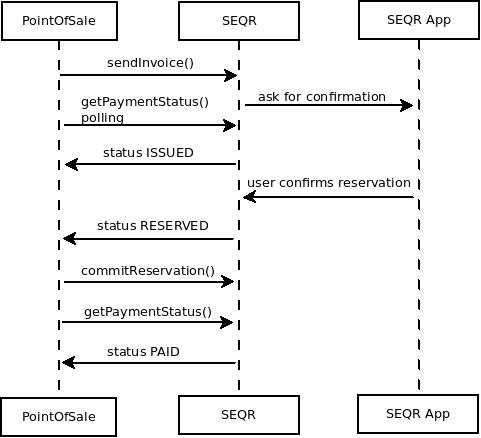
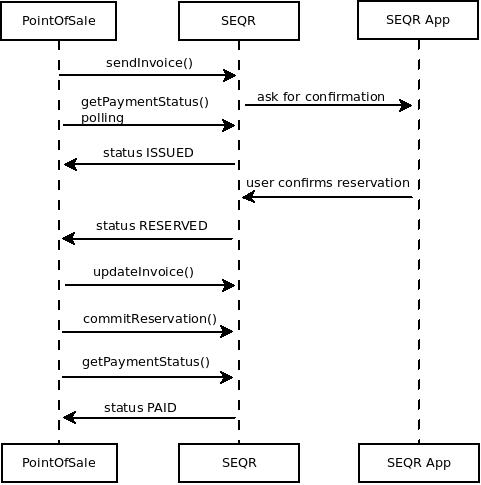
Prepin update

diff --git a/merchant/prepin/index.md b/merchant/prepin/index.md
@@ -10,11 +10,42 @@ SEQR Preliminary Payment allows you to reserve some amount on customer's account
 
 # Integration procedure
 
-Integration procedure depends on what kind of system you are integrating with SEQR. Basically you can follow procedure for [webshop](/merchant/webshop/index.html), [POS](/merchant/pos/index.html) or [mobile app](/merchant/inapp/index.html).
+1. Implement the required methods.
+2. Install test [mobile app](/app/).
+3. Test your implementation against preliminary payment flow.
+4. Introduce your implementation to your system.
+5. Verify your integration.
+6. Go live!
 
 # Implement the required methods
 
-Just follow instructions for your kind of system where you can find which methods are required.
+
+The methods required in a basic integration are:
+
+|--- | --- |
+|  Method | Description |
+|--- | --- |
+| registerTerminal | Registers a new terminal in SEQR server (required in POS systems) |
+| unregisterTerminal | Unregisters an already registered terminal (required in POS systems) |
+| assignSeqrId | Assigns a SEQR ID to a terminal (required in POS systems) |
+| sendInvoice | Sends an invoice to SEQR server |
+| getPaymentStatus | Obtains status of a previously submitted invoice |
+| updateInvoice | Updates an already sent invoice with new set of invoice rows or attributes |
+| cancelInvoice | Cancels an unpaid invoice (required in POS systems) |
+| markTransactionPeriod | Marks the end of one and the beginning of a new transaction period; used in reporting |
+| --- | --- |
+
+
+For an extended integration, also these methods can be used:
+
+|--- | --- |
+|  Method | Description |
+|--- | --- |
+| refundPayment | Refunds a previous payment, partly or the whole sum |
+| submitPaymentReceipt | Sends the receipt document of a payment |
+| executeReport | Executes a report on SEQR server |
+| --- | --- |
+
 
 Main difference is to additionally implement commitReservation method.
 

diff --git a/merchant/reference/api.md b/merchant/reference/api.md
@@ -225,11 +225,12 @@ Invoice is used in sending, updating and receiving status on a payment. What you
 | backURL | in a website shop:  This is the link that  the user will be redirected in your site after a succesfull payment | string | N | | http://merchant.com/displayafterpay |
 | cashierId | Merchant cashier id | string | Y |  | John00232 |
 | clientInvoiceId | This Invoice ID refers to the Identification number from the Merchant itself | string | Y | | Merchant34213421 | 
+| commitReservationTimeout | Time (in seconds) while Merchant can make a commit of preliminary payment | long | N | | 3600 |
 | footer | Footer that you want to display in the users phone receipt | string | Y | | RFC:12389234DKJ3 |
 | invoiceRows | See [invoiceRow data description](#invoiceRow) | 
 | issueDate | point of sale Date  | dateTime | Y | | 2014-04-05T13:23:53 | 
 | notificationURL | optional notification/confirmation url. If set SEQR will access this url after successful payment by user.| string | N | | http://merchant.com/paymentConfirmation?inv=32923423423 |
-| paymentMode | use IMMEDIATE_DEBIT as RESERVATION_DESIRED / RESERVATION_REQUIRED are limited in use | string | Y | | IMMEDIATE_DEBIT |
+| paymentMode | use IMMEDIATE_DEBIT as RESERVATION_DESIRED / RESERVATION_REQUIRED / RESERVATION_REQUIRED_PRELIMINARY_AMOUNT are limited in use | string | Y | | IMMEDIATE_DEBIT |
 | title | title displayed on bill and receipt | string | Y | | My Store Sample Store |
 | totalAmount:value | full amount of invoice/bill | Decimal | Y | 18 | 112.11 | 
 | totalAmount:currency | Use the currency of the country you are in.  Use the ISO standard | string | Y | | EUR |
